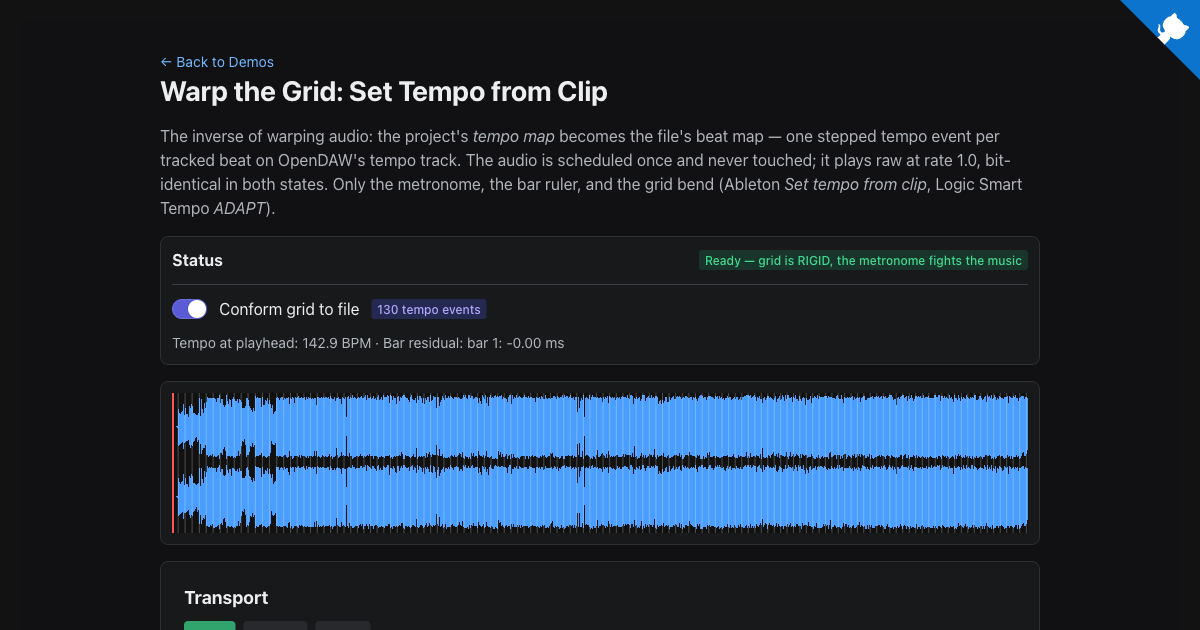
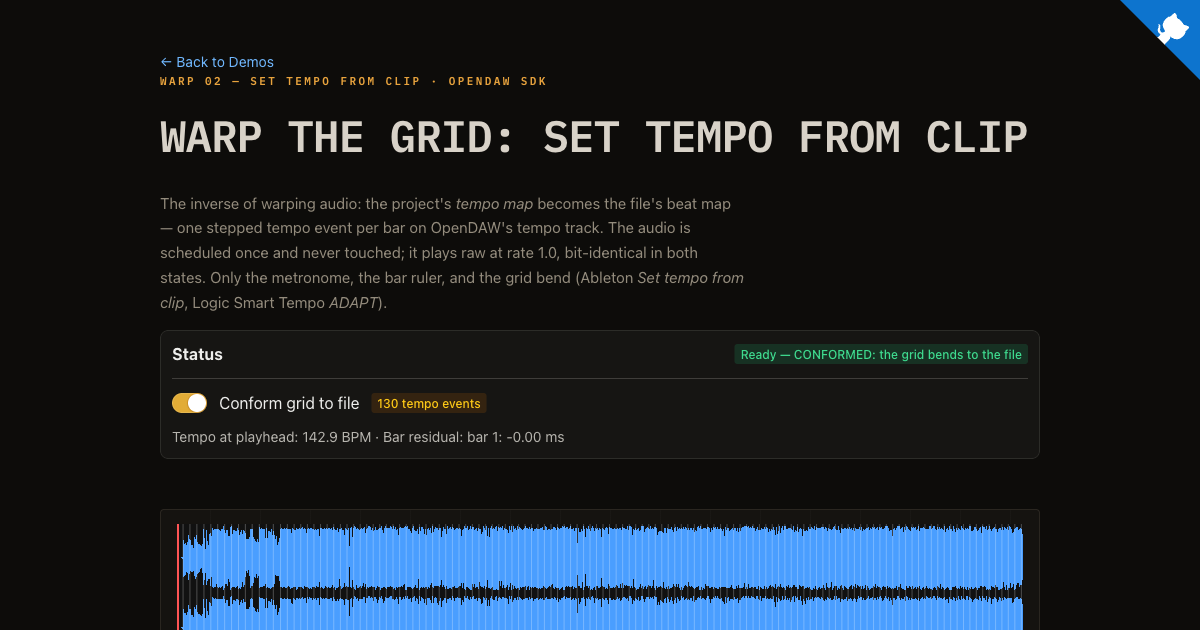
feat: apply mastering-console design to grid-follows-file demo (wave 1)

diff --git a/src/demos/warp/warp-grid-follows-file-demo.tsx b/src/demos/warp/warp-grid-follows-file-demo.tsx
@@ -33,9 +33,9 @@ import {
   Badge,
   Separator,
   Switch,
-  Link,
   Button,
 } from "@radix-ui/themes";
+import { CONSOLE_STYLES } from "@/lib/design/consoleTheme";
 
 const QUARTER = PPQN.Quarter; // 960
 const BAR = PPQN.fromSignature(4, 4); // 3840
@@ -205,20 +205,22 @@ function WarpGridFollowsFileDemo() {
   }, [setup, totalSeconds]);
 
   return (
-    <Theme appearance="dark" accentColor="iris">
+    <Theme appearance="dark" accentColor="amber" style={{ background: "var(--mc-bg)" }}>
+      <style>{CONSOLE_STYLES}</style>
       <Container size="3" py="6">
         <GitHubCorner />
         <BackLink />
         <Flex direction="column" gap="4">
-          <Heading size="7">Warp the Grid: Set Tempo from Clip</Heading>
-          <Text color="gray">
+          <div className="mc-kicker">Warp 02 — Set Tempo from Clip · OpenDAW SDK</div>
+          <h1 className="mc-title" style={{ fontSize: "clamp(28px, 4.5vw, 44px)" }}>WARP THE GRID: SET TEMPO FROM CLIP</h1>
+          <p className="mc-intro">
             The inverse of warping audio: the project&apos;s <em>tempo map</em> becomes the
             file&apos;s beat map — one stepped tempo event per bar on OpenDAW&apos;s tempo
             track. The audio is scheduled once and never touched; it plays raw at rate
             1.0, bit-identical in both states. Only the metronome, the bar ruler, and the
             grid bend (Ableton <em>Set tempo from clip</em>, Logic Smart Tempo{" "}
             <em>ADAPT</em>).
-          </Text>
+          </p>
           {error && (
             <Card>
               <Text color="red">{error}</Text>
@@ -245,7 +247,7 @@ function WarpGridFollowsFileDemo() {
             </Flex>
           </Card>
           {setup && (
-            <Card>
+            <div className="mc-lattice-frame">
               <WarpWaveform
                 project={setup.project}
                 fileUuid={setup.fileUuid}
@@ -255,7 +257,7 @@ function WarpGridFollowsFileDemo() {
                 repaintKey={repaintKey}
                 onError={setError}
               />
-            </Card>
+            </div>
           )}
           <Card>
             <Flex direction="column" gap="3" p="3">
@@ -282,27 +284,25 @@ function WarpGridFollowsFileDemo() {
               </Flex>
             </Flex>
           </Card>
-          <Card>
-            <Flex direction="column" gap="2">
-              <Heading size="4">The math (warp-markers ch 08)</Heading>
-              <Text size="2" color="gray">
-                One stepped tempo event per bar — BPM computed as{" "}
-                <code>60 × 4 / (nextDownbeat − thisDownbeat)</code> in seconds, placed at
-                each downbeat&apos;s grid tick. Bar-level granularity (130 events for this
-                file, ~150 ms per rewrite) is roughly 4× faster than per-beat events
-                (510 events, ~600 ms) while capturing
-                the song&apos;s real tempo drift bar-by-bar. The file&apos;s pickup fills the end of
-                the lead-in bar (the full-bars rule), and the region stays in Seconds
-                timeBase — a Musical region would stretch under the new tempo map,
-                defeating the point. Compare{" "}
-                <Link href="/warp-varispeed-demo.html">varispeed</Link> (bends the sound)
-                and <Link href="/warp-timestretch-demo.html">time-stretch</Link> (bends
-                neither — it slices). See the{" "}
-                <Link href="/warp-demos.html">warp overview</Link> for which DAWs use each
-                approach and who reaches for it.
-              </Text>
-            </Flex>
-          </Card>
+          <section className="mc-anchors">
+            <h2 className="mc-anchors-head">The math (warp-markers ch 08)</h2>
+            <p>
+              One stepped tempo event per bar — BPM computed as{" "}
+              <code>60 × 4 / (nextDownbeat − thisDownbeat)</code> in seconds, placed at
+              each downbeat&apos;s grid tick. Bar-level granularity (130 events for this
+              file, ~150 ms per rewrite) is roughly 4× faster than per-beat events
+              (510 events, ~600 ms) while capturing
+              the song&apos;s real tempo drift bar-by-bar. The file&apos;s pickup fills the end of
+              the lead-in bar (the full-bars rule), and the region stays in Seconds
+              timeBase — a Musical region would stretch under the new tempo map,
+              defeating the point. Compare{" "}
+              <a href="/warp-varispeed-demo.html">varispeed</a> (bends the sound)
+              and <a href="/warp-timestretch-demo.html">time-stretch</a> (bends
+              neither — it slices). See the{" "}
+              <a href="/warp-demos.html">warp overview</a> for which DAWs use each
+              approach and who reaches for it.
+            </p>
+          </section>
           <MoisesLogo />
         </Flex>
       </Container>

diff --git a/warp-grid-follows-file-demo.html b/warp-grid-follows-file-demo.html
@@ -32,11 +32,17 @@
     <meta name="twitter:image" content="https://opendaw-test.pages.dev/og-image-warp-grid-follows-file.png" />
 
     <link rel="icon" type="image/svg+xml" href="/favicon.svg"/>
+    <!-- crossorigin required: the dev server is COOP/COEP cross-origin isolated -->
+    <link rel="preconnect" href="https://fonts.googleapis.com" crossorigin/>
+    <link rel="preconnect" href="https://fonts.gstatic.com" crossorigin/>
+    <link rel="stylesheet" crossorigin
+          href="https://fonts.googleapis.com/css2?family=IBM+Plex+Mono:wght@400;600&display=swap"/>
     <style>
         body {
             margin: 0;
             padding: 20px;
             min-height: 100vh;
+            background: #0d0c0a;
         }
     </style>
 </head>